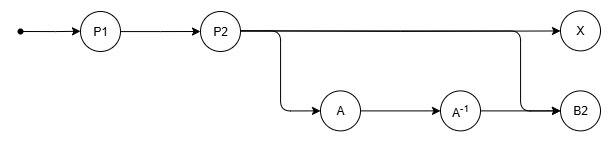
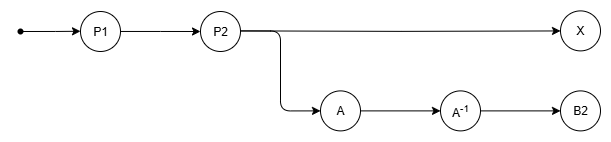
WIP

diff --git a/packages/dds/tree/src/test/shared-tree/editing.spec.ts b/packages/dds/tree/src/test/shared-tree/editing.spec.ts
@@ -3134,6 +3134,38 @@ describe("Editing", () => {
 			const expected = ["B", "C"];
 			expectJsonTree([tree1, tree2, tree3], expected);
 		});
+
+		it("Rebase over conflicted change then rebase over that change", () => {
+			const tree1 = makeTreeFromJsonSequence(["C", "D"]);
+
+			const { undoStack, unsubscribe } = createTestUndoRedoStacks(tree1.events);
+			remove(tree1, 0, 1);
+			const restoreA = undoStack.pop() ?? assert.fail("Missing undo");
+			unsubscribe();
+
+			const tree2 = tree1.branch();
+
+			tree2.transaction.start();
+			tree2.editor.addNodeExistsConstraint(rootNode);
+			tree2.editor.sequenceField(rootField).insert(0, chunkFromJsonTrees(["A"]));
+			tree2.transaction.commit();
+
+			tree2.editor.sequenceField(rootField).insert(1, chunkFromJsonTrees(["B"]));
+			expectJsonTree(tree2, ["A", "B", "D"]);
+
+			// Removing "D" will violate the constraint in the transaction that adds A.
+			remove(tree1, 0, 1);
+
+			tree1.merge(tree2);
+			expectJsonTree(tree1, ["B"]);
+
+			// This revert should fail when trying to order the cells for "A" and "C".
+			// However, the rebase metadata includes information about the commit that added "A".
+			// This allows the rebaser to correctly determine that the cell for "A" is more recent than the cell for "C".
+			restoreA.revert();
+
+			expectJsonTree(tree1, ["B", "C"]);
+		});
 	});
 
 	it.skip("edit removed content", () => {

diff --git a/packages/dds/tree/docs/main/revision-metadata.md b/packages/dds/tree/docs/main/revision-metadata.md
@@ -49,9 +49,19 @@ This occurs in two cases:
 
 One can infer from the above that for a given commit `C`...
 * `C` refers to all cells introduced by `C`.
-* `C` refers to all cells introduced by ancestors of `C` up to some ancestor.
+* `C` refers to all cells introduced by ancestors of `C` up to some ancestor `A`.
 
 The commits that introduce cells that `C` refers to therefore from a contiguous subsequence always including and ending in `C`.
+In other words, when considering a single branch,
+if a commit `C` has a reference to a cell introduced by commit `A`,
+then it also has references to every cell introduced by `A`,
+references to every cells introduced by commits sequenced between `A` and `C`,
+as well as references to every cells introduced by `C`.*
+
+*This currently violated by two things:
+1. [Rollback commits](#rollback-commits)
+1. How we rebase over [commits with constraint violations](#commit-with-constraint-violations).
+See the relevant sections for more details.
 
 In commit graph diagrams, we can represent this contiguous subsequence visually with a segment that extends from `C` backwards under all the commits that introduced cells that `C` refers to:
 
@@ -285,30 +295,33 @@ This shows how implementations of compose need not rely on extra metadata in ord
 
 When rebasing `B ↷ X`, we know the following about the commit graph:
 
-* `X` and `B` are concurrent and have the same ancestry.
+* `X` and `B` are concurrent.
 * `X` comes before `B` in sequencing order.
 
-Note that it does _not_ follow from the above that `B` comes directly after `X` in sequencing order.
-In the simplest case, `B` does comes directly after `X`,
-which amounts to the following graph:<br />
+In the simplest case, it's also true that `X` and `B` have the same ancestry and therefore the same input context.
+This is true when rebasing a branch that contains a single commit:<br />
 ![](../.attachments/revision-metadata/rebase-b-over-x.png)<br />
 with the goal to produce `B'`:<br />
 ![](../.attachments/revision-metadata/rebase-to-bprime.png)<br />
 
-In the more general case, there can be any number of commits between `P` and `B`,
-which amounts to the following graph:<br />
+In the more general case, there can be any number of commits between `P` and `B` on the branch to be rebased:<br />
 ![](../.attachments/revision-metadata/rebase-ab-over-x.png)<br />
 with the goal to produce rebased versions of each before `B'`:<br />
 ![](../.attachments/revision-metadata/rebase-to-abprime.png)<br />
 
+This prevents us from directly rebasing `B` over `X` because they have different input context.
 When confronted to this general case,
 we first rebase `B` over the inverses of all the commits between `P` and `B`.
-This produces to a commit `B2` that is akin to what `B` would have been if `P` were its direct ancestor:<br />
+This maneuver produces to a commit `B2` whose input context is compatible with `X`'s:<br />
 ![](../.attachments/revision-metadata/rebase-b2.png)
 
 It is this `B2` commit that is passed to the rebase function when performing `B ↷ X`.
 The graph of relevant commits in the general case therefore looks like this:<br />
 ![](../.attachments/revision-metadata/rebase-b2-over-x.png)
+
+When we say that `B2`'s input context is compatible with `X`'s,
+what we means is that they are only different in ways that rebase is equipped to handle.
+Specifically, rebase can handle the fact that `B2` may refer to cells that were introduced by ancestors that it does not share with `X` (`A` in our example).
 
 In the remainder of this section, we use `B` to refer to all variants of `B`,
 and `B2` when statements more specifically apply to that particular variant of `B`.
@@ -445,3 +458,92 @@ This is because the rebase implementation has no way of determining whether `cb`
 In order to be able to tackle the remaining cases,
 rebase needs to be able to detect references to cells that were introduced by any commit between `B` and the lowest common ancestor of `X` and `B`.
 In other words, rebase needs to be able to check if a cell was introduced by a commit on the branch that is being rebased.
+
+### Rebase 2.0
+
+It's interesting to note that rebase's need for metadata only comes from our choice of scheme for handling branch rebasing.
+We can imagine a different approach where all commits on the branch are composed together into a single commit that is then rebased as a unit.
+Such an approach would ensure that the rebased commit and the commit that it is rebased over truly have the same ancestry and the same input context,
+and it would make remove the need to the extra metadata.
+
+### Rollback Commits
+
+They're just a tool, they're not real commits:
+* They don't define a valid revision in the document history.
+* They are not rebasable.
+
+When composing, rollback commits break the expectation that commits ony refer to cells introduced by that commit or an earlier commit.
+We can handle this in the compose implementation because  each rollback commit contains information about which commit it is a rollback of.
+You could say each rollback comes with its own metadata that the compose implementation knows to pay attention to.
+
+#### Tiding Up
+
+We could avoid ever passing rollback commits to compose
+(and therefore not require logic in the compose implementation to watch out for rollback commits).
+
+For rebasing commit `C` when rebasing branch `[A, B, C]` over commit `X`,
+we currently do `C ↷ (A⁻¹ ○ B⁻¹ ○ X ○ A' ○ B')`.
+Instead, we could do `(C ↷ (A ○ B)⁻¹) ↷ (X ○ A' ○ B')`.
+
+We could define an `unbase` operation that performs `C ↷ (A ○ B)⁻¹` as an implementation detail.
+The advantage of that is that the changeset produced by `(A ○ B)⁻¹` wouldn't exist outside the scope of this `unbase` operation.
+
+For producing a delta when rebasing branch `[A, B]` over commit `X`,
+we currently apply `Δ(A⁻¹ ○ B⁻¹ ○ X ○ A' ○ B')`.
+Instead, we could apply `Δ((A ○ B)⁻¹)` then apply `Δ(X ○ A' ○ B')`.
+The trouble with that, is that it will feed a lot of change notifications to delta visitors (and ultimately the app)
+even when the net change is minimal.
+
+Instead we could try to implement composition for delta and apply the composition of these two deltas
+(which should largely cancel out).
+
+### Commit With Constraint Violations
+
+Commits with a constraint violations may introduce cells that downstream commits depend on for ordering.
+Our implementation of rebase skips over conflicted commits,
+which means that the rebased change will not include references to the cells introduced by that conflicted commit.
+
+This breaks our invariant that every commit `X` that includes references to cells introduced by some commit `C`,
+will also have references to cell introduced by commits sequenced between `C` and `X`.
+
+Here's a test:
+```typescript
+const tree1 = makeTreeFromJsonSequence(["C", "D"]);
+
+const { undoStack, unsubscribe } = createTestUndoRedoStacks(tree1.events);
+remove(tree1, 0, 1);
+const restoreA = undoStack.pop() ?? assert.fail("Missing undo");
+unsubscribe();
+
+const tree2 = tree1.branch();
+
+tree2.transaction.start();
+tree2.editor.addNodeExistsConstraint(rootNode);
+tree2.editor.sequenceField(rootField).insert(0, chunkFromJsonTrees(["A"]));
+tree2.transaction.commit();
+
+tree2.editor.sequenceField(rootField).insert(1, chunkFromJsonTrees(["B"]));
+expectJsonTree(tree2, ["A", "B", "D"]);
+
+// Removing "D" will violate the constraint in the transaction that adds A.
+remove(tree1, 0, 1);
+
+tree1.merge(tree2);
+expectJsonTree(tree1, ["B"]);
+
+// This revert should fail when trying to order the cells for "A" and "C".
+// However, the rebase metadata includes information about the commit that added "A".
+// This is because:
+// - We include base changes in the metadata.
+// - We don't update the metadata per rebase step, and provide to every rebase step the metadata about the overall rebase.
+// This allows the rebaser to correctly determine that the cell for "A" is more recent than the cell for "C".
+restoreA.revert();
+
+expectJsonTree(tree1, ["B", "C"]);
+```
+
+Because you can't directly target cells from a commit with constraint violations,
+A commit with references to cells introduced by a commit with constraint violations must have been rebased at least once.
+This means that the commit will have tombstones for all commits 
+
+In practice this is not a problem because cell references are only needed when rebasing or composing commits that both refer to these cells. This can only happen for commits that were downstream of the conflicted commit at a time when it wasn't conflicted.
